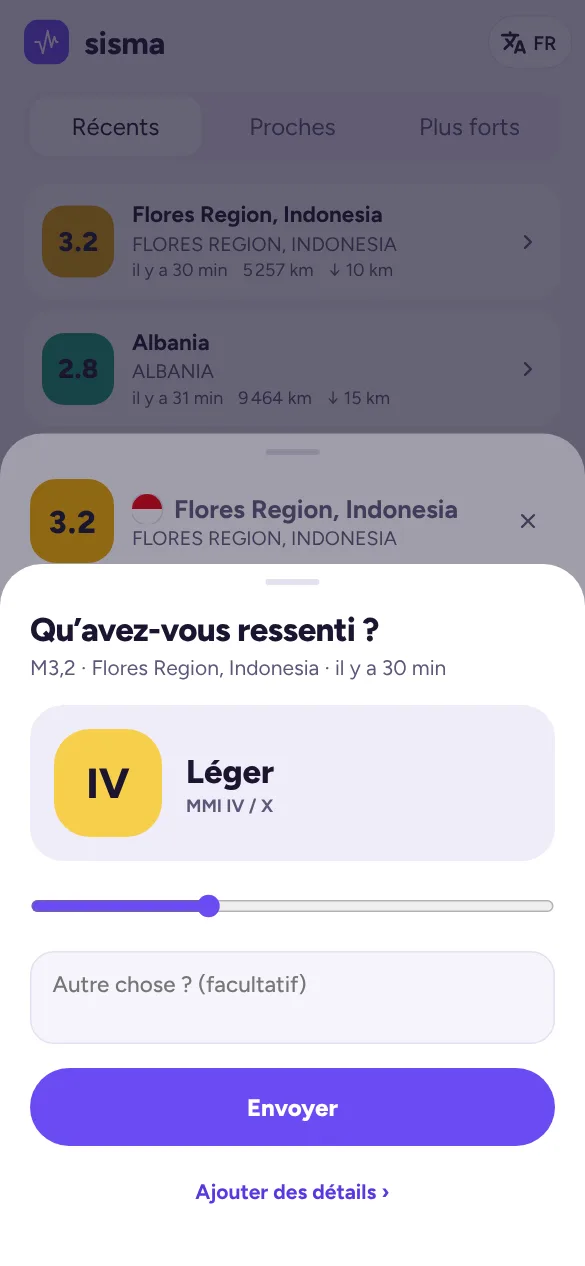
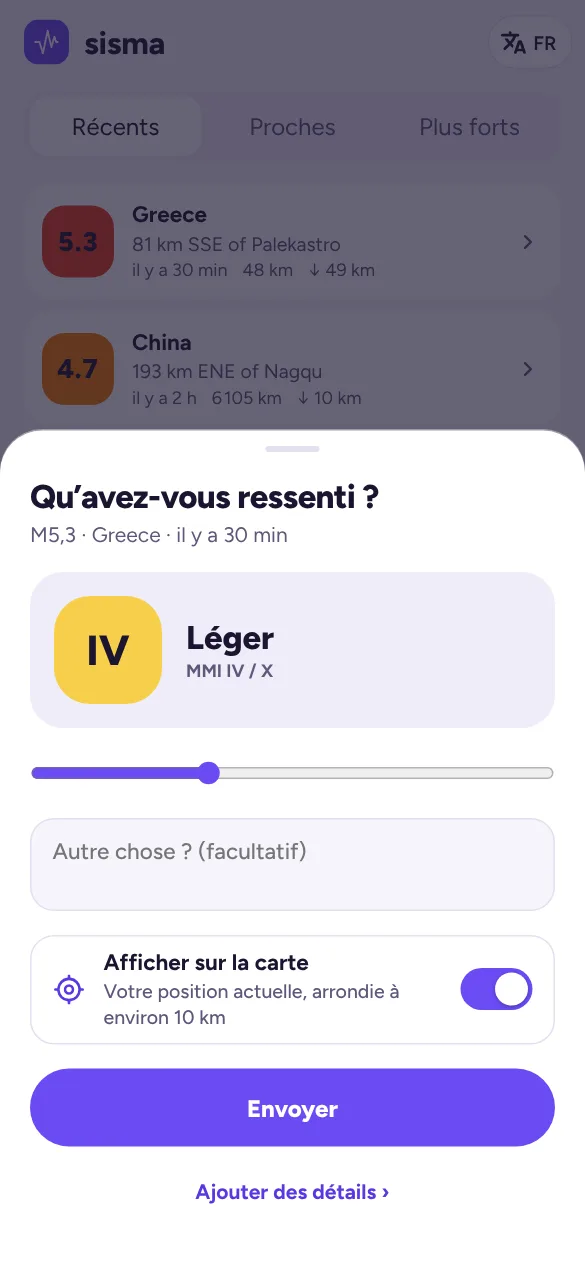
Felt reports on the region map: Show on the map switch and full counts
- "I felt it" sheet: a "Show on the map" switch (on by default) places the report in its ~10 km cell at the
  device position, or else the place chosen in Me, when within 3,000 km of the epicentre. Previously only a
  device position was sent, so most reports had no location and never reached the map.
- GET /api/reports also returns the MMI range of all reports; the region view card counts every report,
  shows the intensity range on a second line and how many are on the map.
- Felt-report areas in the region view are drawn larger (min ~30 px radius) and stronger.
- Thank-you text says whether the report went on the map. New keys in all 10 languages.
- Help centre "I felt it" topic and its screenshots updated in all 10 languages, both themes.

Claude-Session: https://claude.ai/code/session_01VVoEA6g7d5oSRS2St1KTEW

diff --git a/app/src/components/FeltReport.tsx b/app/src/components/FeltReport.tsx
@@ -9,6 +9,7 @@ import { Sheet } from './Sheet';
 import { timeAgo } from './QuakeRow';
 import { MMI_COLORS, ROMAN } from '@/lib/theme';
 import { canReport } from '@/lib/quakes/report-window';
+import { distanceKm } from '@/lib/geo';
 import type { Quake } from '@/lib/quakes/types';
 import styles from './felt.module.css';
 
@@ -87,6 +88,8 @@ export function FeltButton({ q, variant = 'pill', fallback = null }: { q: Quake;
   );
 }
 
+/** A report is placed on the felt map only from a place within this distance of the epicentre. */
+const MAP_RANGE_KM = 3000;
 const DURATIONS = ['< 10 s', '10–30 s', '30–60 s', '> 1 min'];
 
 function ReportForm({ q, onClose, onSent }: { q: Quake; onClose: () => void; onSent: (entry: MineEntry) => void }) {
@@ -100,22 +103,29 @@ function ReportForm({ q, onClose, onSent }: { q: Quake; onClose: () => void; onS
   const [moved, setMoved] = useState<number[]>([]);
   const [damage, setDamage] = useState<number | null>(null);
   const [state, setState] = useState<'idle' | 'sending' | 'error'>('idle');
+  const [sentOnMap, setSentOnMap] = useState(false);
+  // Where the report goes on the felt map: the device position, else the place chosen in Me (not the default
+  // place). Only offered within 3,000 km of the epicentre; the person can switch it off.
+  const chosen = locations[active];
+  const spot = locations.find(l => l.fromDevice) ?? (chosen && !chosen.fallback ? chosen : null);
+  const near = spot && distanceKm(spot.lat, spot.lon, q.lat, q.lon) <= MAP_RANGE_KM ? spot : null;
+  const [onMap, setOnMap] = useState(true);
 
   const send = async () => {
     setState('sending');
-    const loc = locations[active];
+    const loc = near && onMap ? near : null;
     try {
       const r = await fetch('/api/reports', {
         method: 'POST', headers: { 'Content-Type': 'application/json' },
         body: JSON.stringify({
           quakeId: q.id, mmi, note, locale, ...(step === 'details' ? { place, duration, moved, damage } : {}),
-          // Only a real device location is sent (the server coarsens it to ~10 km).
-          ...(loc?.fromDevice ? { lat: loc.lat, lon: loc.lon } : {}),
+          // Only when the person leaves "Show on the map" on; the server coarsens it to ~10 km.
+          ...(loc ? { lat: loc.lat, lon: loc.lon } : {}),
         }),
       });
       if (!r.ok) throw new Error(String(r.status));
-      const cell = loc?.fromDevice ? { lat: Math.round(loc.lat * 10) / 10, lon: Math.round(loc.lon * 10) / 10 } : {};
-      onSent({ mmi, ...cell }); setState('idle'); setStep('done');
+      const cell = loc ? { lat: Math.round(loc.lat * 10) / 10, lon: Math.round(loc.lon * 10) / 10 } : {};
+      onSent({ mmi, ...cell }); setSentOnMap(!!loc); setState('idle'); setStep('done');
     } catch { setState('error'); }
   };
 
@@ -127,7 +137,7 @@ function ReportForm({ q, onClose, onSent }: { q: Quake; onClose: () => void; onS
       <div className={styles.done}>
         <span className={styles.doneIcon}><span className="ms" aria-hidden="true">check</span></span>
         <h2>{t('thanks')}</h2>
-        <p>{t('thanks_sub')}</p>
+        <p>{sentOnMap ? t('thanks_sub') : t('thanks_sub_nomap')}</p>
       </div>
       <button type="button" className={styles.primary} onClick={onClose}>{t('done')}</button>
     </>
@@ -148,6 +158,16 @@ function ReportForm({ q, onClose, onSent }: { q: Quake; onClose: () => void; onS
           <input className={styles.slider} type="range" min={1} max={10} step={1} value={mmi} onChange={e => setMmi(+e.target.value)}
             aria-label={t('report_title')} aria-valuetext={`MMI ${ROMAN[mmi - 1]} · ${mmiLabel}`} />
           <textarea className={styles.note} rows={2} value={note} onChange={e => setNote(e.target.value)} placeholder={t('note_ph')} maxLength={500} aria-label={t('note_ph')} />
+          {near && (
+            <button type="button" className={styles.mapRow} role="switch" aria-checked={onMap} onClick={() => setOnMap(v => !v)}>
+              <span className="ms" aria-hidden="true">{near.fromDevice ? 'my_location' : 'location_on'}</span>
+              <span className={styles.mapText}>
+                <strong>{t('report_map')}</strong>
+                <small>{near.fromDevice ? t('report_map_here') : t('report_map_hint', { place: near.name })}</small>
+              </span>
+              <span className={styles.switch} aria-hidden="true"><span /></span>
+            </button>
+          )}
         </>
       ) : (
         <>
@@ -185,20 +205,23 @@ export interface FeltCell { lat: number; lon: number; n: number; mmi: number }
  */
 export function useFeltCells(quakeId: string | null) {
   const { mine } = useFeltReport();
-  const [data, setData] = useState<{ id: string; cells: FeltCell[]; demo: boolean } | null>(null);
+  const [data, setData] = useState<{ id: string; cells: FeltCell[]; total: number; range: { min: number; max: number } | null; demo: boolean } | null>(null);
   useEffect(() => {
     if (!quakeId) return;
     let alive = true;
     fetch('/api/reports?quakeId=' + encodeURIComponent(quakeId))
       .then(r => (r.ok ? r.json() : null))
-      .then(j => { if (alive) setData({ id: quakeId, cells: j?.cells ?? [], demo: !j || !!j.demo }); })
-      .catch(() => { if (alive) setData({ id: quakeId, cells: [], demo: true }); });
+      .then(j => { if (alive) setData({ id: quakeId, cells: j?.cells ?? [], total: j?.total ?? 0, range: j?.range ?? null, demo: !j || !!j.demo }); })
+      .catch(() => { if (alive) setData({ id: quakeId, cells: [], total: 0, range: null, demo: true }); });
     return () => { alive = false; };
   }, [quakeId]);
+  // total: every report (with or without a location); mapped: those on the map; range: lowest and highest MMI.
   return useMemo(() => {
-    if (!quakeId || data?.id !== quakeId) return { loading: !!quakeId, cells: [] as FeltCell[], total: 0 };
-    const own = mine[quakeId];
-    const cells = data.demo && own?.lat != null && own.lon != null ? [...data.cells, { lat: own.lat, lon: own.lon, n: 1, mmi: own.mmi }] : data.cells;
-    return { loading: false, cells, total: cells.reduce((s, c) => s + c.n, 0) };
+    if (!quakeId || data?.id !== quakeId) return { loading: !!quakeId, cells: [] as FeltCell[], total: 0, mapped: 0, range: null };
+    const own = data.demo ? mine[quakeId] : undefined;
+    const cells = own?.lat != null && own.lon != null ? [...data.cells, { lat: own.lat, lon: own.lon, n: 1, mmi: own.mmi }] : data.cells;
+    const total = own ? data.total + 1 : data.total;
+    const range = own ? { min: Math.min(own.mmi, data.range?.min ?? 10), max: Math.max(own.mmi, data.range?.max ?? 1) } : data.range;
+    return { loading: false, cells, total, mapped: cells.reduce((s, c) => s + c.n, 0), range };
   }, [quakeId, data, mine]);
 }

diff --git a/app/src/app/help/i18n/ja.tsx b/app/src/app/help/i18n/ja.tsx
@@ -165,13 +165,15 @@ export const TOPICS: Topic[] = [
             <li>地震を開きます。発生から最大 <strong>6 時間</strong>は<Ui>揺れを感じた</Ui>が表示されます。</li>
             <li>スライダーを動かして、感じた揺れの強さを<em>感じない</em>から<em>極めて激しい</em>までの間で選びます。バッジには対応する震度階級（MMI）が表示されます。</li>
             <li>必要に応じてメモを追加するか、<Ui>詳細を追加</Ui>をタップして、いた場所、揺れの長さ、動いたもの、被害を入力します。</li>
+            <li><Ui>地図に表示</Ui>が表示されたら、オンのままにすると報告が地図に載り、オフにすると件数にだけ数えられます。位置には端末の現在地、共有していない場合は<Ui>マイページ</Ui>で選んだ場所が使われ、その場所が震源から 3,000 km 以内のときだけ表示されます。</li>
             <li><Ui>報告を送信</Ui>をタップします。</li>
           </ol>
-          <p>報告は<strong>名前やアカウントなしで</strong>保存され、位置は約 10 km 単位に丸められます。</p>
+          <p>報告は<strong>名前やアカウントなしで</strong>保存されます。地図上の位置は約 10 km 単位に丸められます。</p>
+          <p>報告は周辺の表示（<Ui>周辺を表示</Ui>）に、震度階級ごとの色のぼかしで表示されます。上部のカードには報告の件数と震度階級（MMI）の範囲が表示され、位置なしで送られた報告がある場合は地図上の件数も表示されます。</p>
           <h3>揺れた地域の地図</h3>
           <p>地震の直後に多くの人が sisma を開くと、その集中から揺れが感じられたと思われる場所がわかります。sisma はこれを匿名の<strong>揺れた地域の地図</strong>にして、周辺表示に表示します。位置は端末上で最大 500 m ぼかされ、アカウントや端末の識別子は含まれず、約 10 km の範囲に 3 人以上いる場合にのみ表示されます。この機能は<Ui>マイページ</Ui> → <Ui>揺れた地域の地図づくりに協力</Ui>でオフにできます。</p>
         </div>
-        <Shot src="felt" alt="どのくらい揺れましたか？シート。強さのスライダー、任意のメモ、報告を送信がある" caption="感じた揺れを報告する" />
+        <Shot src="felt" alt="どのくらい揺れましたか？シート。強さのスライダー、任意のメモ、地図に表示のスイッチ、報告を送信がある" caption="感じた揺れを報告する" />
       </div>
       </>
     ),

diff --git a/app/src/app/help/i18n/fr.tsx b/app/src/app/help/i18n/fr.tsx
@@ -165,13 +165,15 @@ export const TOPICS: Topic[] = [
             <li>Ouvrez le séisme. Pendant <strong>6 heures</strong> au maximum après qu’il s’est produit, vous verrez <Ui>Je l’ai ressenti</Ui>.</li>
             <li>Placez le curseur selon la force ressentie, de <em>Non ressenti</em> à <em>Extrême</em>. La pastille indique le niveau d’intensité correspondant (MMI).</li>
             <li>Ajoutez une note si vous le souhaitez, ou touchez <Ui>Ajouter des détails</Ui> pour indiquer où vous étiez, combien de temps cela a duré, ce qui a bougé et les éventuels dégâts.</li>
+            <li>Si <Ui>Afficher sur la carte</Ui> apparaît, laissez-le activé pour placer votre témoignage sur la carte, ou désactivez-le pour qu’il soit seulement compté. Il utilise la position de votre appareil ou, si vous ne l’avez pas partagée, le lieu choisi dans <Ui>Profil</Ui>, et n’apparaît que si ce lieu est à moins de 3 000 km du séisme.</li>
             <li>Touchez <Ui>Envoyer</Ui>.</li>
           </ol>
-          <p>Votre témoignage est enregistré <strong>sans votre nom ni votre compte</strong>, et votre position est arrondie à environ 10 km.</p>
+          <p>Votre témoignage est enregistré <strong>sans votre nom ni votre compte</strong>. Sur la carte, sa position est arrondie à environ 10 km.</p>
+          <p>Les témoignages apparaissent dans la vue de la région (<Ui>Afficher la région</Ui>) sous forme de zones colorées estompées, une couleur par niveau d’intensité. La carte en haut indique le nombre de témoignages et leur plage d’intensité (MMI), ainsi que le nombre affiché sur la carte lorsque certains ont été envoyés sans position.</p>
           <h3>Cartes des ressentis</h3>
           <p>Quand beaucoup de personnes ouvrent sisma juste après un séisme, cet afflux montre où il a probablement été ressenti. sisma en fait une <strong>carte des ressentis</strong> anonyme dans la vue régionale. Les positions sont floutées sur votre appareil jusqu’à 500 m, ne portent aucun identifiant de compte ni d’appareil, et ne sont affichées que pour des zones d’environ 10 km comptant au moins 3 personnes. Vous pouvez désactiver cette fonction dans <Ui>Profil</Ui> → <Ui>Aider à cartographier où les séismes sont ressentis</Ui>.</p>
         </div>
-        <Shot src="felt" alt="Fiche Qu’avez-vous ressenti ? avec un curseur d’intensité, une note facultative et Envoyer" caption="Signaler ce que vous avez ressenti" />
+        <Shot src="felt" alt="Fiche Qu’avez-vous ressenti ? avec un curseur d’intensité, une note facultative, l’interrupteur Afficher sur la carte et Envoyer" caption="Signaler ce que vous avez ressenti" />
       </div>
       </>
     ),

diff --git a/app/src/app/help/i18n/it.tsx b/app/src/app/help/i18n/it.tsx
@@ -165,13 +165,15 @@ export const TOPICS: Topic[] = [
             <li>Apri il terremoto. Fino a <strong>6 ore</strong> dopo l’evento vedrai <Ui>L’ho sentito</Ui>.</li>
             <li>Sposta il cursore in base a quanto è stato forte, da <em>Non avvertito</em> a <em>Estremo</em>. Il badge mostra il livello di intensità corrispondente (MMI).</li>
             <li>Se vuoi, aggiungi una nota, oppure tocca <Ui>Aggiungi dettagli</Ui> per indicare dove ti trovavi, quanto è durato, cosa si è mosso ed eventuali danni.</li>
+            <li>Se compare <Ui>Mostra sulla mappa</Ui>, lascialo attivo per collocare la tua segnalazione sulla mappa, oppure disattivalo perché venga solo conteggiata. Usa la posizione del dispositivo o, se non l’hai condivisa, il luogo scelto in <Ui>Profilo</Ui>, e compare solo quando quel luogo è entro 3.000 km dal terremoto.</li>
             <li>Tocca <Ui>Invia segnalazione</Ui>.</li>
           </ol>
-          <p>La tua segnalazione viene salvata <strong>senza il tuo nome né il tuo account</strong>, e la tua posizione viene arrotondata a circa 10 km.</p>
+          <p>La tua segnalazione viene salvata <strong>senza il tuo nome né il tuo account</strong>. Sulla mappa, la sua posizione viene arrotondata a circa 10 km.</p>
+          <p>Le segnalazioni compaiono nella vista della zona (<Ui>Mostra zona</Ui>) come aree colorate sfumate, un colore per ogni livello di intensità. La scheda in alto indica quante segnalazioni ci sono e il loro intervallo di intensità (MMI), e quante sono sulla mappa quando alcune sono state inviate senza posizione.</p>
           <h3>Mappe del risentimento</h3>
           <p>Quando molte persone aprono sisma subito dopo un terremoto, quell’afflusso mostra dove probabilmente è stato avvertito. sisma lo trasforma in una <strong>mappa del risentimento</strong> anonima nella vista della zona. Le posizioni vengono sfocate sul tuo dispositivo fino a 500 m, non contengono alcun identificativo di account o dispositivo e vengono mostrate solo per aree di circa 10 km con almeno 3 persone. Puoi disattivare questa funzione in <Ui>Profilo</Ui> → <Ui>Aiuta a mappare dove si avvertono i terremoti</Ui>.</p>
         </div>
-        <Shot src="felt" alt="Scheda Cosa hai sentito? con un cursore dell’intensità, una nota facoltativa e Invia segnalazione" caption="Segnalare cosa hai sentito" />
+        <Shot src="felt" alt="Scheda Cosa hai sentito? con un cursore dell’intensità, una nota facoltativa, l’interruttore Mostra sulla mappa e Invia segnalazione" caption="Segnalare cosa hai sentito" />
       </div>
       </>
     ),

diff --git a/app/src/app/help/i18n/de.tsx b/app/src/app/help/i18n/de.tsx
@@ -165,13 +165,15 @@ export const TOPICS: Topic[] = [
             <li>Öffne das Erdbeben. Bis zu <strong>6 Stunden</strong> danach siehst du <Ui>Ich habe es gespürt</Ui>.</li>
             <li>Stell den Schieberegler darauf ein, wie stark es sich angefühlt hat, von <em>Nicht gespürt</em> bis <em>Extrem</em>. Das Kennzeichen zeigt die passende Intensitätsstufe (MMI).</li>
             <li>Füge bei Bedarf eine Notiz hinzu oder tippe auf <Ui>Details hinzufügen</Ui> für deinen Aufenthaltsort, die Dauer, was sich bewegt hat und eventuelle Schäden.</li>
+            <li>Wenn <Ui>Auf der Karte zeigen</Ui> erscheint, lass es eingeschaltet, um deine Meldung auf die Karte zu setzen, oder schalte es aus, damit sie nur gezählt wird. Verwendet wird der Standort deines Geräts oder, falls du ihn nicht freigegeben hast, der in <Ui>Profil</Ui> gewählte Ort. Die Option erscheint nur, wenn dieser Ort weniger als 3.000 km vom Erdbeben entfernt ist.</li>
             <li>Tippe auf <Ui>Meldung senden</Ui>.</li>
           </ol>
-          <p>Deine Meldung wird <strong>ohne deinen Namen und ohne dein Konto</strong> gespeichert, und deine Position wird auf etwa 10 km gerundet.</p>
+          <p>Deine Meldung wird <strong>ohne deinen Namen und ohne dein Konto</strong> gespeichert. Auf der Karte wird ihre Position auf etwa 10 km gerundet.</p>
+          <p>Meldungen erscheinen in der Regionsansicht (<Ui>Region zeigen</Ui>) als weiche Farbflächen, eine Farbe pro Intensitätsstufe. Die Karte oben zeigt die Zahl der Meldungen und ihren Intensitätsbereich (MMI) und, wenn einige ohne Standort gesendet wurden, wie viele auf der Karte sind.</p>
           <h3>Spürkarten</h3>
           <p>Wenn viele Menschen sisma direkt nach einem Erdbeben öffnen, zeigt dieser Ansturm, wo es wahrscheinlich gespürt wurde. sisma macht daraus eine anonyme <strong>Spürkarte</strong> in der Regionsansicht. Positionen werden auf deinem Gerät um bis zu 500 m verschoben, enthalten keine Konto- oder Gerätekennung und werden nur für Gebiete von etwa 10 km mit mindestens 3 Personen angezeigt. Du kannst das unter <Ui>Profil</Ui> → <Ui>Helfen, Spürkarten zu erstellen</Ui> ausschalten.</p>
         </div>
-        <Shot src="felt" alt="Fenster „Was hast du gespürt?“ mit Intensitätsregler, optionaler Notiz und Meldung senden" caption="Melden, was du gespürt hast" />
+        <Shot src="felt" alt="Fenster „Was hast du gespürt?“ mit Intensitätsregler, optionaler Notiz, dem Schalter Auf der Karte zeigen und Meldung senden" caption="Melden, was du gespürt hast" />
       </div>
       </>
     ),

diff --git a/app/src/app/help/i18n/tr.tsx b/app/src/app/help/i18n/tr.tsx
@@ -165,13 +165,15 @@ export const TOPICS: Topic[] = [
             <li>Depremi aç. Deprem olduktan sonraki <strong>6 saat</strong> boyunca <Ui>Hissettim</Ui> düğmesini görürsün.</li>
             <li>Kaydırıcıyı ne kadar güçlü hissettiğine göre, <em>Hissedilmedi</em> ile <em>Aşırı</em> arasında ayarla. Rozet, karşılık gelen şiddet düzeyini (MMI) gösterir.</li>
             <li>İstersen bir not ekle ya da nerede olduğunu, ne kadar sürdüğünü, nelerin hareket ettiğini ve hasar olup olmadığını eklemek için <Ui>Ayrıntı ekle</Ui> düğmesine dokun.</li>
+            <li><Ui>Haritada göster</Ui> görünürse bildirimini haritaya yerleştirmek için açık bırak ya da yalnızca sayılması için kapat. Cihazının konumu, paylaşmadıysan <Ui>Profil</Ui> bölümünde seçtiğin yer kullanılır; seçenek yalnızca bu yer depreme 3.000 km’den yakınsa görünür.</li>
             <li><Ui>Bildirimi gönder</Ui> düğmesine dokun.</li>
           </ol>
-          <p>Bildirimin <strong>adın veya hesabın olmadan</strong> saklanır ve konumun yaklaşık 10 km’ye yuvarlanır.</p>
+          <p>Bildirimin <strong>adın veya hesabın olmadan</strong> saklanır. Haritada konumu yaklaşık 10 km’ye yuvarlanır.</p>
+          <p>Bildirimler bölge görünümünde (<Ui>Bölgeyi göster</Ui>) her şiddet düzeyi için ayrı renkte yumuşak alanlar olarak görünür. Üstteki kart bildirim sayısını ve şiddet aralığını (MMI), bazıları konumsuz gönderildiyse haritada kaç tane olduğunu gösterir.</p>
           <h3>Hissedilme haritaları</h3>
           <p>Bir depremin hemen ardından birçok kişi sisma’yı açtığında, bu yoğunluk depremin muhtemelen nerede hissedildiğini gösterir. sisma bunu bölge görünümünde anonim bir <strong>hissedilme haritasına</strong> dönüştürür. Konumlar cihazında 500 m’ye kadar bulanıklaştırılır, hiçbir hesap veya cihaz tanımlayıcısı taşımaz ve yalnızca en az 3 kişinin bulunduğu yaklaşık 10 km’lik alanlarda gösterilir. Bunu <Ui>Profil</Ui> → <Ui>Depremin nerede hissedildiğini haritalamaya yardım et</Ui> bölümünden kapatabilirsin.</p>
         </div>
-        <Shot src="felt" alt="Şiddet kaydırıcısı, isteğe bağlı not ve Bildirimi gönder düğmesiyle Ne hissettin? penceresi" caption="Hissettiklerini bildirme" />
+        <Shot src="felt" alt="Şiddet kaydırıcısı, isteğe bağlı not, Haritada göster anahtarı ve Bildirimi gönder düğmesiyle Ne hissettin? penceresi" caption="Hissettiklerini bildirme" />
       </div>
       </>
     ),

diff --git a/app/src/app/help/i18n/pt.tsx b/app/src/app/help/i18n/pt.tsx
@@ -165,13 +165,15 @@ export const TOPICS: Topic[] = [
             <li>Abra o terremoto. Por até <strong>6 horas</strong> depois que ele aconteceu, você vê <Ui>Eu senti</Ui>.</li>
             <li>Mova o controle deslizante até a força que você sentiu, de <em>Não sentido</em> a <em>Extremo</em>. O selo mostra o nível de intensidade correspondente (MMI).</li>
             <li>Se quiser, acrescente uma observação ou toque em <Ui>Adicionar detalhes</Ui> para dizer onde você estava, quanto tempo durou, o que se mexeu e se houve danos.</li>
+            <li>Se aparecer <Ui>Mostrar no mapa</Ui>, deixe ativado para colocar seu relato no mapa, ou desative para que ele seja apenas contado. Ele usa a localização do seu dispositivo ou, se você não a compartilhou, o lugar escolhido em <Ui>Perfil</Ui>, e só aparece quando esse lugar está a menos de 3.000 km do terremoto.</li>
             <li>Toque em <Ui>Enviar relato</Ui>.</li>
           </ol>
-          <p>Seu relato é guardado <strong>sem seu nome nem sua conta</strong>, e sua posição é arredondada para cerca de 10 km.</p>
+          <p>Seu relato é guardado <strong>sem seu nome nem sua conta</strong>. No mapa, a posição é arredondada para cerca de 10 km.</p>
+          <p>Os relatos aparecem na visualização da região (<Ui>Mostrar região</Ui>) como áreas coloridas suaves, uma cor por nível de intensidade. O cartão no topo mostra quantos relatos existem e sua faixa de intensidade (MMI), e quantos estão no mapa quando alguns foram enviados sem localização.</p>
           <h3>Mapas de percepção</h3>
           <p>Quando muitas pessoas abrem o sisma logo depois de um terremoto, esse movimento mostra onde ele provavelmente foi sentido. O sisma transforma isso em um <strong>mapa de percepção</strong> anônimo na visão da região. As posições são embaralhadas no seu dispositivo em até 500 m, não levam nenhum identificador de conta ou de dispositivo e só aparecem para áreas de cerca de 10 km com pelo menos 3 pessoas. Você pode desativar isso em <Ui>Perfil</Ui> → <Ui>Ajudar a mapear onde os tremores são sentidos</Ui>.</p>
         </div>
-        <Shot src="felt" alt="Tela O que você sentiu? com um controle deslizante de intensidade, uma observação opcional e Enviar relato" caption="Relatando o que você sentiu" />
+        <Shot src="felt" alt="Tela O que você sentiu? com um controle deslizante de intensidade, uma observação opcional, a chave Mostrar no mapa e Enviar relato" caption="Relatando o que você sentiu" />
       </div>
       </>
     ),

diff --git a/app/src/app/help/i18n/id.tsx b/app/src/app/help/i18n/id.tsx
@@ -165,13 +165,15 @@ export const TOPICS: Topic[] = [
             <li>Buka gempanya. Hingga <strong>6 jam</strong> setelah gempa terjadi, Anda akan melihat <Ui>Saya merasakannya</Ui>.</li>
             <li>Geser penggeser sesuai seberapa kuat guncangan terasa, dari <em>Tidak terasa</em> hingga <em>Ekstrem</em>. Lencana menunjukkan tingkat intensitas yang sesuai (MMI).</li>
             <li>Jika mau, tambahkan catatan, atau ketuk <Ui>Tambah detail</Ui> untuk menyebutkan di mana Anda berada, berapa lama guncangan berlangsung, apa yang bergerak, dan kerusakan apa pun.</li>
+            <li>Jika <Ui>Tampilkan di peta</Ui> muncul, biarkan aktif untuk menaruh laporan Anda di peta, atau matikan agar laporan hanya dihitung. Lokasi yang dipakai adalah lokasi perangkat Anda atau, jika belum Anda bagikan, tempat yang dipilih di <Ui>Saya</Ui>, dan opsi ini hanya muncul jika tempat itu berjarak kurang dari 3.000 km dari gempa.</li>
             <li>Ketuk <Ui>Kirim laporan</Ui>.</li>
           </ol>
-          <p>Laporan Anda disimpan <strong>tanpa nama atau akun Anda</strong>, dan posisi Anda dibulatkan hingga sekitar 10 km.</p>
+          <p>Laporan Anda disimpan <strong>tanpa nama atau akun Anda</strong>. Di peta, posisinya dibulatkan hingga sekitar 10 km.</p>
+          <p>Laporan muncul di tampilan wilayah (<Ui>Tampilkan wilayah</Ui>) sebagai area berwarna lembut, satu warna untuk tiap tingkat intensitas. Kartu di atas menunjukkan jumlah laporan dan rentang intensitasnya (MMI), serta berapa yang ada di peta jika sebagian dikirim tanpa lokasi.</p>
           <h3>Peta guncangan</h3>
           <p>Saat banyak orang membuka sisma tepat setelah gempa, lonjakan itu menunjukkan di mana gempa kemungkinan besar terasa. sisma mengubahnya menjadi <strong>peta guncangan</strong> anonim di tampilan wilayah. Posisi dikaburkan di perangkat Anda hingga 500 m, tidak membawa pengenal akun atau perangkat, dan hanya ditampilkan untuk area sekitar 10 km dengan setidaknya 3 orang. Anda bisa menonaktifkannya di <Ui>Saya</Ui> → <Ui>Bantu memetakan di mana gempa terasa</Ui>.</p>
         </div>
-        <Shot src="felt" alt="Lembar Apa yang Anda rasakan? dengan penggeser intensitas, catatan opsional, dan Kirim laporan" caption="Melaporkan apa yang Anda rasakan" />
+        <Shot src="felt" alt="Lembar Apa yang Anda rasakan? dengan penggeser intensitas, catatan opsional, sakelar Tampilkan di peta, dan Kirim laporan" caption="Melaporkan apa yang Anda rasakan" />
       </div>
       </>
     ),

diff --git a/app/src/app/help/i18n/es.tsx b/app/src/app/help/i18n/es.tsx
@@ -165,13 +165,15 @@ export const TOPICS: Topic[] = [
             <li>Abre el sismo. Durante las <strong>6 horas</strong> siguientes a que ocurriera, verás <Ui>Lo sentí</Ui>.</li>
             <li>Mueve el control deslizante según la fuerza con que lo sentiste, de <em>No sentido</em> a <em>Extremo</em>. La insignia muestra el nivel de intensidad correspondiente (MMI).</li>
             <li>Si quieres, añade una nota o toca <Ui>Añadir detalles</Ui> para indicar dónde estabas, cuánto duró, qué se movió y si hubo daños.</li>
+            <li>Si aparece <Ui>Mostrar en el mapa</Ui>, déjalo activado para situar tu reporte en el mapa, o desactívalo para que solo se cuente. Usa la ubicación de tu dispositivo o, si no la has compartido, el lugar elegido en <Ui>Perfil</Ui>, y solo aparece cuando ese lugar está a menos de 3000 km del sismo.</li>
             <li>Toca <Ui>Enviar reporte</Ui>.</li>
           </ol>
-          <p>Tu reporte se guarda <strong>sin tu nombre ni tu cuenta</strong>, y tu posición se redondea a unos 10 km.</p>
+          <p>Tu reporte se guarda <strong>sin tu nombre ni tu cuenta</strong>. En el mapa, su posición se redondea a unos 10 km.</p>
+          <p>Los reportes aparecen en la vista de región (<Ui>Mostrar región</Ui>) como zonas de color difuminadas, un color por nivel de intensidad. La tarjeta superior muestra cuántos reportes hay y su rango de intensidad (MMI), y cuántos están en el mapa cuando algunos se enviaron sin ubicación.</p>
           <h3>Mapas de percepción</h3>
           <p>Cuando mucha gente abre sisma justo después de un sismo, ese aumento muestra dónde probablemente se sintió. sisma lo convierte en un <strong>mapa de percepción</strong> anónimo en la vista de región. Las posiciones se difuminan en tu dispositivo hasta 500 m, no llevan ningún identificador de cuenta ni de dispositivo, y solo se muestran para zonas de unos 10 km con al menos 3 personas. Puedes desactivarlo en <Ui>Perfil</Ui> → <Ui>Ayudar a mapear dónde se sienten los sismos</Ui>.</p>
         </div>
-        <Shot src="felt" alt="Hoja ¿Qué sentiste? con un control deslizante de intensidad, una nota opcional y Enviar reporte" caption="Reportar lo que sentiste" />
+        <Shot src="felt" alt="Hoja ¿Qué sentiste? con un control deslizante de intensidad, una nota opcional, el interruptor Mostrar en el mapa y Enviar reporte" caption="Reportar lo que sentiste" />
       </div>
       </>
     ),

diff --git a/app/src/app/help/i18n/zh.tsx b/app/src/app/help/i18n/zh.tsx
@@ -165,13 +165,15 @@ export const TOPICS: Topic[] = [
             <li>打开这次地震。在地震发生后最多 <strong>6 小时</strong>内，你会看到<Ui>我感觉到了</Ui>。</li>
             <li>移动滑块选择你感觉到的强度，从<em>无感</em>到<em>极端</em>。徽章会显示对应的烈度等级（MMI）。</li>
             <li>可以选择添加备注，或点按<Ui>添加更多细节</Ui>，填写你当时在哪里、持续了多久、什么东西晃动了以及有无破坏。</li>
+            <li>如果出现<Ui>在地图上显示</Ui>，保持开启即可把你的报告放到地图上，关闭则只计入数量。它使用你设备的位置；如果你没有共享位置，则使用你在<Ui>我的</Ui>中选择的地点。只有当该地点距离地震 3,000 公里以内时才会出现。</li>
             <li>点按<Ui>提交报告</Ui>。</li>
           </ol>
-          <p>你的报告在存储时<strong>不含你的姓名或账户</strong>，你的位置会被取整到约 10 公里。</p>
+          <p>你的报告在存储时<strong>不含你的姓名或账户</strong>。在地图上，其位置会被取整到约 10 公里。</p>
+          <p>报告会以柔和的色块显示在区域视图（<Ui>显示区域</Ui>）中，每个烈度等级一种颜色。顶部卡片显示报告数量及其烈度范围（MMI）；如果有报告未附带位置，还会显示地图上有多少份。</p>
           <h3>有感地图</h3>
           <p>地震刚发生后，如果很多人同时打开 sisma，这股使用激增就能显示地震可能在哪里被感知到。sisma 会据此在区域视图中生成匿名的<strong>有感地图</strong>。位置会在你的设备上模糊处理，偏移最多 500 米，不带任何账户或设备标识，并且只在约 10 公里范围内至少有 3 人时才会显示。你可以在<Ui>我的</Ui> → <Ui>帮助绘制地震有感地图</Ui>中关闭此功能。</p>
         </div>
-        <Shot src="felt" alt="“你感觉到了什么？”面板，含烈度滑块、可选备注和提交报告" caption="报告你的感受" />
+        <Shot src="felt" alt="“你感觉到了什么？”面板，含烈度滑块、可选备注、在地图上显示开关和提交报告" caption="报告你的感受" />
       </div>
       </>
     ),

diff --git a/app/src/app/help/topics.tsx b/app/src/app/help/topics.tsx
@@ -178,13 +178,15 @@ export const TOPICS: Topic[] = [
             <li>Open the earthquake. For up to <strong>6 hours</strong> after it happened, you’ll see <Ui>I felt it</Ui>.</li>
             <li>Move the slider to how strong it felt, from <em>Not felt</em> to <em>Extreme</em>. The badge shows the matching intensity level (MMI).</li>
             <li>Optionally add a note, or tap <Ui>Add more detail</Ui> for where you were, how long it lasted, what moved and any damage.</li>
+            <li>If <Ui>Show on the map</Ui> appears, leave it on to place your report on the map, or switch it off so it is only counted. It uses your device location or, if you haven’t shared it, the place chosen in <Ui>Me</Ui>, and appears only when that place is within 3,000 km of the earthquake.</li>
             <li>Tap <Ui>Send report</Ui>.</li>
           </ol>
-          <p>Your report is stored <strong>without your name or account</strong>, and your position is rounded to about 10 km.</p>
+          <p>Your report is stored <strong>without your name or account</strong>. On the map, its position is rounded to about 10 km.</p>
+          <p>Reports appear in the region view (<Ui>Show region</Ui>) as soft coloured areas, one colour per intensity level. The card at the top shows how many reports there are and their intensity range (MMI), and how many are on the map when some were sent without a location.</p>
           <h3>Felt maps</h3>
           <p>When many people open sisma right after an earthquake, that rush shows where it was probably felt. sisma turns it into an anonymous <strong>felt map</strong> in the region view. Positions are blurred on your device by up to 500 m, carry no account or device identifier, and are only shown for areas of about 10 km with at least 3 people. You can turn this off in <Ui>Me</Ui> → <Ui>Help map where quakes are felt</Ui>.</p>
         </div>
-        <Shot src="felt" alt="What did you feel? sheet with an intensity slider, an optional note and Send report" caption="Reporting what you felt" />
+        <Shot src="felt" alt="What did you feel? sheet with an intensity slider, an optional note, the Show on the map switch and Send report" caption="Reporting what you felt" />
       </div>
       </>
     ),

diff --git a/app/src/components/dash/WorldMap.tsx b/app/src/components/dash/WorldMap.tsx
@@ -248,7 +248,8 @@ export function WorldMap({ quakes, center, selectedId, onSelect, projection = 'e
   const me = pin ? project(center.lon, center.lat) : null;
   // The device position, when it isn't the chosen location itself (more than ~100 m away).
   const away = here && Math.hypot(here.lat - center.lat, here.lon - center.lon) > 0.001 ? project(here.lon, here.lat) : null;
-  // ~10 km radius (0.09° of latitude) in map units, never smaller than ~10 screen px so a cell stays visible.
+  // ~10 km radius (0.09° of latitude) in map units; felt reports get a radius of at least ~30 screen px so they stay
+  // visible in the region view.
   const blobs = useMemo(() => cells.flatMap(c => {
     const a = project(c.lon, c.lat), b = project(c.lon, Math.min(89, c.lat + 0.09));
     return a && b ? [{ ...c, x: a[0], y: a[1], geoR: Math.hypot(b[0] - a[0], b[1] - a[1]) }] : [];
@@ -478,7 +479,7 @@ export function WorldMap({ quakes, center, selectedId, onSelect, projection = 'e
       {blobs.length > 0 && (
         <g aria-hidden="true" pointerEvents="none">
           {blobs.map(b => (
-            <circle key={`${b.lat},${b.lon}`} cx={b.x} cy={b.y} r={Math.max(b.geoR * 1.6, 18 / k) * (1 + Math.min(1, (b.n - 1) / 10) * 0.5)}
+            <circle key={`${b.lat},${b.lon}`} cx={b.x} cy={b.y} r={Math.max(b.geoR * 1.6, 30 / k) * (1 + Math.min(1, (b.n - 1) / 10) * 0.5)}
               fill={`url(#${gid}felt${Math.min(10, Math.max(1, Math.round(b.mmi)))})`} />
           ))}
         </g>
@@ -505,8 +506,8 @@ export function WorldMap({ quakes, center, selectedId, onSelect, projection = 'e
               ))}
               {MMI_COLORS.map((c, i) => (
                 <radialGradient key={i} id={`${gid}felt${i + 1}`}>
-                  <stop offset="0%" stopColor={c} stopOpacity={0.75} />
-                  <stop offset="60%" stopColor={c} stopOpacity={0.35} />
+                  <stop offset="0%" stopColor={c} stopOpacity={0.85} />
+                  <stop offset="60%" stopColor={c} stopOpacity={0.45} />
                   <stop offset="100%" stopColor={c} stopOpacity={0} />
                 </radialGradient>
               ))}
